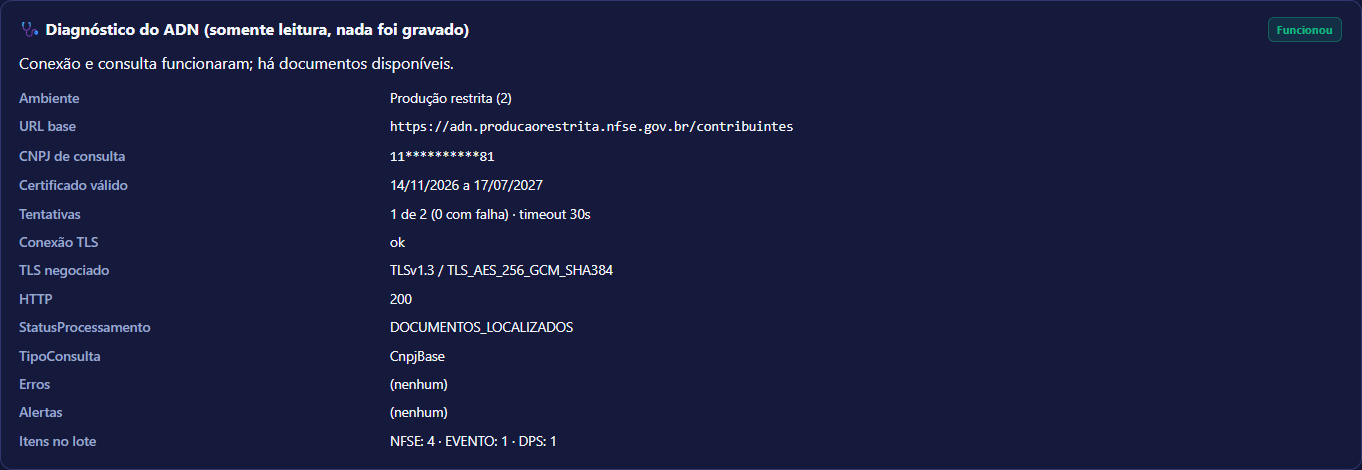
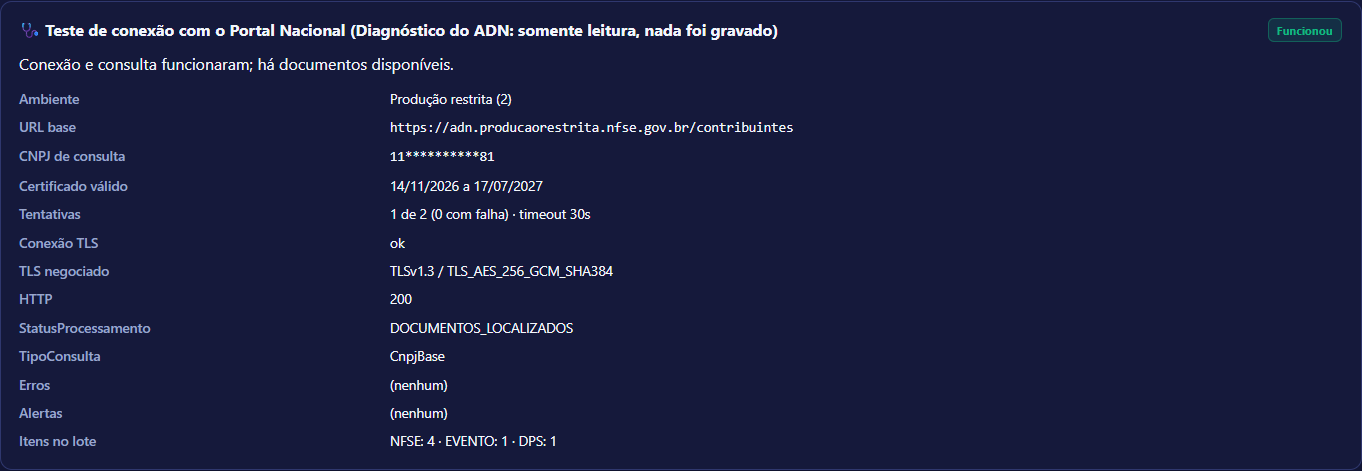
docs(ui): rename 'Diagnóstico do ADN' button to 'Testar conexão (Portal Nacional)' and drop remaining old button/tab names
The technical name stays as hover tip, in the diagnostic panel title and in the READMEs.

diff --git a/web/static/app.js b/web/static/app.js
@@ -1201,7 +1201,7 @@
     }
   };
 
-  // --- Fase 2 & 3: Recebidas da SEFAZ + Cadastro Visual do Certificado A1 ---
+  // --- Fases 2-4: Buscar notas (SEFAZ e Portal Nacional) + Cadastro Visual do Certificado A1 ---
   const definirStatusRecebidas = (msg, erro = false) => {
     const el = document.getElementById("recebidas-sync-status");
     if (!el) return;
@@ -1232,7 +1232,7 @@
   };
 
   const mensagemUltimaSync = (log, origem) => {
-    if (!log) return "Nenhuma sincronização registrada.";
+    if (!log) return "Nenhuma busca registrada.";
     const quando = log.ts ? new Date(log.ts).toLocaleString("pt-BR") : "-";
     let txt = `Última execução (${quando}): `;
     const gravados = `${log.novos_docs} documento(s) gravado(s) em ${log.paginas} página(s)`;
@@ -1387,7 +1387,7 @@
           bannerBloqueio.classList.remove("hidden");
           bannerBloqueio.innerHTML = `
             ⛔ <strong>Trava obrigatória SEFAZ ativa (cStat 656 — Consumo Indevido):</strong>
-            aguarde ~${minRest} min (até ${escaparHtml(dtAte)}) antes de sincronizar novamente para não reiniciar o bloqueio de 1 hora na SEFAZ.
+            aguarde ~${minRest} min (até ${escaparHtml(dtAte)}) antes de buscar novamente para não reiniciar o bloqueio de 1 hora na SEFAZ.
           `;
           if (btnSync) btnSync.disabled = true;
         } else {
@@ -1624,7 +1624,7 @@
 
     if (notas.length === 0) {
       tbody.innerHTML =
-        '<tr><td colspan="10" style="text-align:center;" class="muted">Nenhuma nota encontrada para os filtros selecionados. Sincronize ou carregue a demonstração.</td></tr>';
+        '<tr><td colspan="10" style="text-align:center;" class="muted">Nenhuma nota encontrada para os filtros selecionados. Busque as notas ou carregue a demonstração.</td></tr>';
       return;
     }
 
@@ -1755,7 +1755,7 @@
         return { erro: true, texto: "NF-e: cadastre o certificado digital A1 (passo a passo acima)." };
       }
       if (!resp.ok) {
-        return { erro: true, texto: `NF-e: ${dados.detail || `falha na sincronização (HTTP ${resp.status}).`}` };
+        return { erro: true, texto: `NF-e: ${dados.detail || `falha na busca (HTTP ${resp.status}).`}` };
       }
       return {
         erro: false,
@@ -1775,7 +1775,7 @@
         return { erro: true, texto: "NFS-e: cadastre o certificado digital A1 (passo a passo acima)." };
       }
       if (!resp.ok) {
-        return { erro: true, texto: `NFS-e: ${dados.detail || `falha na sincronização (HTTP ${resp.status}).`}` };
+        return { erro: true, texto: `NFS-e: ${dados.detail || `falha na busca (HTTP ${resp.status}).`}` };
       }
       let txt = `NFS-e (ADN): ${dados.paginas_consultadas} página(s), ${dados.novas_notas} nova(s), ${dados.notas_atualizadas} atualizada(s), ${dados.eventos_registrados} evento(s)`;
       const ign = Object.entries(dados.ignorados_por_tipo || {});
@@ -1868,7 +1868,7 @@
       : '<span class="badge badge-err">Atenção</span>';
     return `
       <div style="display:flex;justify-content:space-between;align-items:center;gap:1rem;">
-        <strong>🩺 Diagnóstico do ADN (somente leitura, nada foi gravado)</strong> ${selo}
+        <strong>🩺 Teste de conexão com o Portal Nacional (Diagnóstico do ADN: somente leitura, nada foi gravado)</strong> ${selo}
       </div>
       <p style="margin:0.5rem 0;">${escaparHtml(d.interpretacao || "")}</p>
       <table class="diag-table"><tbody>
@@ -1888,7 +1888,7 @@
       if (resp.status === 503) {
         box.classList.add("hidden");
         mostrarPassoACerto();
-        definirStatusRecebidas("Cadastre o certificado digital A1 para usar o diagnóstico (passo a passo acima).", true);
+        definirStatusRecebidas("Cadastre o certificado digital A1 para testar a conexão (passo a passo acima).", true);
         return;
       }
       if (!resp.ok) {
@@ -1982,7 +1982,7 @@
   const resetarBancoCompleto = async () => {
     const confirmado = window.confirm(
       "Zerar completamente o banco SQLite local?\n\n" +
-        "Isso apagará todos os lotes importados (Aba 1), todas as notas recebidas da SEFAZ (Aba 2), " +
+        "Isso apagará todos os lotes importados (Aba 1), todas as notas buscadas (aba Buscar notas), " +
         "cursores NSU e logs, deixando o sistema pronto para dados reais. " +
         "Seu Certificado Digital A1 configurado não será apagado."
     );

diff --git a/web/templates/index.html b/web/templates/index.html
@@ -13,7 +13,7 @@
         <span class="brand-badge">NF-e / NFC-e / NFS-e</span>
         <div>
           <h1>nfe-local <span class="version-pill">v{{ version }}</span></h1>
-          <p class="subtitle">Acervo fiscal unificado, validador contábil em lote, DANFE / DANFSe e sincronização SEFAZ 100% local</p>
+          <p class="subtitle">Acervo fiscal unificado, validador contábil em lote, DANFE / DANFSe e busca de notas na SEFAZ e no Portal Nacional, 100% local</p>
         </div>
       </div>
       <div class="topbar-actions">
@@ -455,7 +455,7 @@
       </div>
     </div>
 
-    <!-- ABA 2: Recebidas da SEFAZ (NFeDistribuicaoDFe) -->
+    <!-- ABA 2: Buscar notas (SEFAZ e Portal Nacional) -->
     <div id="aba-recebidas" class="tab-panel hidden">
       <!-- Painel de Status e Gestão Visual do Certificado A1 e Cursor NSU -->
       <section class="card sefaz-status-panel">
@@ -477,8 +477,8 @@
             <button id="btn-sync-tudo" type="button" class="btn btn-gold" title="Busca a NF-e de produto na SEFAZ e depois a NFS-e de serviço no ADN">
               🔄 Buscar tudo
             </button>
-            <button id="btn-diag-adn" type="button" class="btn btn-secondary" title="Uma consulta de leitura ao ADN; não grava nada no banco nem altera o cursor">
-              🩺 Diagnóstico do ADN
+            <button id="btn-diag-adn" type="button" class="btn btn-secondary" title="Diagnóstico do ADN: uma consulta de leitura ao ADN (GET /DFe/0); não grava nada no banco nem altera o cursor">
+              🩺 Testar conexão (Portal Nacional)
             </button>
             <button id="btn-demo-recebidas" type="button" class="btn btn-secondary">
               🧪 Carregar Recebidas de Demonstração
@@ -598,7 +598,7 @@
             <li>Tenha em mãos o arquivo <code>.pfx</code> (ou <code>.p12</code>) do e-CNPJ A1 e a senha dele.</li>
             <li>Clique em <strong>⚙ Cadastrar / Trocar Certificado (.pfx)</strong> acima e escolha o arquivo.</li>
             <li>Informe a senha, escolha o ambiente (produção restrita para testar, produção para valer) e clique em <strong>Validar e Salvar</strong>.</li>
-            <li>Volte aqui e clique em <strong>🩺 Diagnóstico do ADN</strong> para testar a conexão sem gravar nada; depois em <strong>Sincronizar tudo</strong>.</li>
+            <li>Volte aqui e clique em <strong>🩺 Testar conexão (Portal Nacional)</strong> para testar sem gravar nada; depois em <strong>Buscar tudo</strong>.</li>
           </ol>
           <span class="muted">Sem certificado você ainda pode usar <strong>🧪 Carregar Recebidas de Demonstração</strong> (dados fictícios) e enviar XMLs na primeira aba.</span>
         </div>

diff --git a/tests/test_web_recebidas.py b/tests/test_web_recebidas.py
@@ -395,6 +395,20 @@ class TestRotasRecebidasSEFAZ:
         assert "Buscar notas (SEFAZ e Portal Nacional)" in html
         assert "Recebidas da SEFAZ (DistDFe)" not in html
         assert ">🏛 SEFAZ e ADN" not in html
+        # nomes antigos de botões não aparecem em nenhum texto da interface
+        raiz = Path(__file__).parent.parent
+        js = (raiz / "web" / "static" / "app.js").read_text(encoding="utf-8")
+        for antigo in (
+            "Sincronizar tudo",
+            "Sincronizar NF-e",
+            "Sincronizar NFS-e",
+            "Sincronizar com a SEFAZ",
+            "🩺 Diagnóstico do ADN",
+            "Recebidas da SEFAZ",
+        ):
+            assert antigo not in html, antigo
+            assert antigo not in js, antigo
+        assert "<strong>Buscar tudo</strong>" in html  # passo a passo sem certificado
         for rotulo in (
             "Buscar NF-e de produto (SEFAZ)",
             "Buscar NFS-e de serviço (Portal Nacional)",
@@ -408,7 +422,8 @@ class TestRotasRecebidasSEFAZ:
             "XMLs ilegíveis (ERRO_XML)",
             "Totais por tipo e por papel",
             "Valor total (autorizadas)",
-            "Diagnóstico do ADN",
+            "Testar conexão (Portal Nacional)",
+            "Diagnóstico do ADN: uma consulta de leitura",
             "Tudo (acervo + SEFAZ + ADN)",
             "Só emitidas",
             "Só tomadas",

diff --git a/README.md b/README.md
@@ -16,8 +16,8 @@ Seus arquivos XML e seu certificado digital nunca saem da sua infraestrutura: to
 | ![Tabela de notas](docs/prints/tabela-notas.png) | ![Painel gerencial](docs/prints/painel-gerencial.png) |
 | **Buscar notas (SEFAZ e Portal Nacional): NF-e de produto e NFS-e de serviço, com Origem e Papel** | **Escopo "Tudo" (acervo + SEFAZ + ADN)** |
 | ![Buscar notas (SEFAZ e Portal Nacional)](docs/prints/sefaz-adn.png) | ![Escopo Tudo](docs/prints/escopo-tudo.png) |
-| **Diagnóstico do ADN (somente leitura)** | **DANFE oficial (NF-e 55)** |
-| ![Diagnóstico do ADN](docs/prints/diagnostico-adn.png) | ![DANFE](docs/prints/danfe.png) |
+| **Testar conexão (Portal Nacional) = Diagnóstico do ADN, somente leitura** | **DANFE oficial (NF-e 55)** |
+| ![Testar conexão (Portal Nacional)](docs/prints/diagnostico-adn.png) | ![DANFE](docs/prints/danfe.png) |
 
 ![DANFSe v2.0 com QR Code](docs/prints/danfse.png)
 
@@ -92,7 +92,7 @@ A aba **Buscar notas (SEFAZ e Portal Nacional)** mostra o que foi buscado automa
    - Consulta SOAP 1.2 com mTLS usando Certificado Digital A1 (`.pfx`), descompacta lotes `<docZip>` (`base64 + gzip`), armazena no SQLite local e disponibiliza a aba **"🏛 SEFAZ e ADN"** com filtros por emitente, período, faixa de valor, categoria e situação.
 7. **Sincronização de NFS-e pelo ADN Nacional (emitidas e tomadas — Fase 4):**
    - Busca, no mesmo fluxo, as NFS-e em que o CNPJ é **prestador, tomador ou intermediário**, com cursor de NSU próprio, repetição automática só em falha de conexão e diagnóstico somente leitura. Veja a seção **Fase 4** abaixo e `docs/adn.md`.
-8. **Visão única:** a aba **Buscar notas (SEFAZ e Portal Nacional)** (botões *Buscar NF-e de produto (SEFAZ)*, *Buscar NFS-e de serviço (Portal Nacional)*, *Buscar tudo* e *Diagnóstico do ADN*) e o escopo **Tudo** da primeira aba mostram tudo o que o CNPJ emitiu ou recebeu (produto, serviço e consumidor).
+8. **Visão única:** a aba **Buscar notas (SEFAZ e Portal Nacional)** (botões *Buscar NF-e de produto (SEFAZ)*, *Buscar NFS-e de serviço (Portal Nacional)*, *Buscar tudo* e *Testar conexão (Portal Nacional)*, que é o Diagnóstico do ADN) e o escopo **Tudo** da primeira aba mostram tudo o que o CNPJ emitiu ou recebeu (produto, serviço e consumidor).
 
 ---
 
@@ -146,7 +146,7 @@ fe_recebidas.db` (ou `NFE_DB_PATH`) | **Sem criptografia.** Contém as notas rec
 - **Sem DPAPI (Linux, macOS, Docker):** a senha **não é gravada em disco**. Defina `NFE_CERT_SENHA` no ambiente do processo; sem ela o certificado cadastrado não abre e o programa avisa.
 - **Limite da DPAPI:** protege contra cópia dos arquivos e outros usuários da máquina, não contra um programa malicioso rodando como você nem contra alguém logado na sua conta.
 - ⚠ **Nunca deixe o certificado dentro de pastas sincronizadas** (OneDrive, Dropbox, Google Drive, iCloud). Elas enviam os arquivos para a nuvem e guardam versões antigas. A interface avisa quando detecta esse caso.
-- **Migração:** versões antigas gravavam `data/certificado/` dentro do projeto, com `senha.txt` em texto puro. Se essa pasta existir, a aba **Recebidas da SEFAZ** mostra o botão **"Mover e proteger agora"**: o certificado vai para a pasta segura, a senha é protegida e os arquivos antigos são sobrescritos e apagados. A senha nunca é impressa em tela nem em log. Atenção: se a pasta antiga já foi sincronizada, cópias podem existir no histórico de versões/lixeira da nuvem. Nesse caso, **troque o certificado** (revogue e emita outro) ou ao menos apague essas versões.
+- **Migração:** versões antigas gravavam `data/certificado/` dentro do projeto, com `senha.txt` em texto puro. Se essa pasta existir, a aba **Buscar notas (SEFAZ e Portal Nacional)** mostra o botão **"Mover e proteger agora"**: o certificado vai para a pasta segura, a senha é protegida e os arquivos antigos são sobrescritos e apagados. A senha nunca é impressa em tela nem em log. Atenção: se a pasta antiga já foi sincronizada, cópias podem existir no histórico de versões/lixeira da nuvem. Nesse caso, **troque o certificado** (revogue e emita outro) ou ao menos apague essas versões.
 
 ### 2. Regras Operacionais da SEFAZ Implementadas
 - **Sincronização Incremental por NSU (`ultNSU` / `maxNSU`):**
@@ -173,7 +173,7 @@ O **ADN** (Ambiente de Dados Nacional da NFS-e) distribui as NFS-e do Padrão Na
 ### Como testar a chamada real (passo a passo)
 
 1. **Cadastre o certificado A1** (aba **Buscar notas (SEFAZ e Portal Nacional)** → *Cadastrar / Trocar Certificado*, ou `NFE_CERT_PATH`/`NFE_CERT_SENHA`).
-2. **Diagnóstico (não grava nada):** botão **🩺 Diagnóstico do ADN** ou `nfe-local sincronizar-adn --diagnostico --ambiente 2` (depois `--ambiente 1`). Ele faz **uma** consulta de leitura e mostra: URL base, CNPJ **mascarado**, validade do certificado, resultado do TLS (versão e cifrador), HTTP, `StatusProcessamento`, `TipoConsulta`, erros/alertas e a contagem de itens por tipo. Em falha de conexão, mostra a etapa, a exceção raiz, o código do sistema e o que fazer, sem URL com parâmetros, CNPJ, caminho do certificado, senha nem XML.
+2. **Diagnóstico (não grava nada):** botão **🩺 Testar conexão (Portal Nacional)** (o Diagnóstico do ADN) ou `nfe-local sincronizar-adn --diagnostico --ambiente 2` (depois `--ambiente 1`). Ele faz **uma** consulta de leitura e mostra: URL base, CNPJ **mascarado**, validade do certificado, resultado do TLS (versão e cifrador), HTTP, `StatusProcessamento`, `TipoConsulta`, erros/alertas e a contagem de itens por tipo. Em falha de conexão, mostra a etapa, a exceção raiz, o código do sistema e o que fazer, sem URL com parâmetros, CNPJ, caminho do certificado, senha nem XML.
 3. **Sincronização de uma página:** `nfe-local sincronizar-adn --max-paginas 1 --db <um banco de teste>`.
 4. **Sincronização completa:** `nfe-local sincronizar-adn` (ou **Buscar NFS-e de serviço (Portal Nacional)** / **Buscar tudo** no painel). Se parar por `LIMITE_PAGINAS`, rode de novo: continua do cursor.
 

diff --git a/README.en.md b/README.en.md
@@ -16,8 +16,8 @@ Your XML files and digital certificate never leave your infrastructure: all proc
 | ![Invoice table](docs/prints/tabela-notas.png) | ![Management dashboard](docs/prints/painel-gerencial.png) |
 | **Buscar notas (SEFAZ and Portal Nacional): product NF-e and service NFS-e, with Origin and Role** | **"Everything" scope (archive + SEFAZ + ADN)** |
 | ![Buscar notas (SEFAZ and Portal Nacional)](docs/prints/sefaz-adn.png) | ![Everything scope](docs/prints/escopo-tudo.png) |
-| **ADN diagnostic (read-only)** | **Official DANFE (NF-e 55)** |
-| ![ADN diagnostic](docs/prints/diagnostico-adn.png) | ![DANFE](docs/prints/danfe.png) |
+| **Testar conexão (Portal Nacional) = ADN diagnostic, read-only** | **Official DANFE (NF-e 55)** |
+| ![Testar conexão (Portal Nacional)](docs/prints/diagnostico-adn.png) | ![DANFE](docs/prints/danfe.png) |
 
 ![DANFSe v2.0 with QR Code](docs/prints/danfse.png)
 
@@ -92,7 +92,7 @@ The **Buscar notas (SEFAZ e Portal Nacional)** tab shows what was fetched automa
    - Performs SOAP 1.2 queries with mTLS using an ICP-Brasil A1 certificate (`.pfx`), decompresses `<docZip>` payloads (`base64 + gzip`), persists records in local SQLite, and provides the **"🏛 SEFAZ e ADN"** tab filterable by issuer, date range, amount, category, and status.
 7. **NFS-e Synchronization via the National ADN (issued and received — Phase 4):**
    - Fetches, in the same flow, NFS-e where the CNPJ is **provider, taker or intermediary**, with its own NSU cursor, automatic retries only on connection failures and a read-only diagnostic. See the **Phase 4** section below and `docs/adn.md`.
-8. **Single view:** the **Buscar notas (SEFAZ e Portal Nacional)** tab (*Buscar NF-e de produto (SEFAZ)*, *Buscar NFS-e de serviço (Portal Nacional)*, *Buscar tudo* and *Diagnóstico do ADN* buttons) and the **Tudo** scope on the first tab show everything the CNPJ issued or received (product, service and consumer).
+8. **Single view:** the **Buscar notas (SEFAZ e Portal Nacional)** tab (*Buscar NF-e de produto (SEFAZ)*, *Buscar NFS-e de serviço (Portal Nacional)*, *Buscar tudo* and *Testar conexão (Portal Nacional)* buttons; the latter is the ADN diagnostic) and the **Tudo** scope on the first tab show everything the CNPJ issued or received (product, service and consumer).
 
 ---
 
@@ -171,7 +171,7 @@ The **ADN** (national NFS-e data environment) distributes the National Standard 
 ### How to test the real call (step by step)
 
 1. **Register the A1 certificate** (**Buscar notas (SEFAZ e Portal Nacional)** tab → *Cadastrar / Trocar Certificado*, or `NFE_CERT_PATH`/`NFE_CERT_SENHA`).
-2. **Diagnostic (writes nothing):** the **🩺 Diagnóstico do ADN** button or `nfe-local sincronizar-adn --diagnostico --ambiente 2` (then `--ambiente 1`). It makes **one** read query and shows: base URL, **masked** CNPJ, certificate validity, TLS result (version and cipher), HTTP, `StatusProcessamento`, `TipoConsulta`, errors/alerts and the item count per type. On a connection failure it shows the stage, root exception, OS code and what to do, with no URL parameters, CNPJ, certificate path, password or XML.
+2. **Diagnostic (writes nothing):** the **🩺 Testar conexão (Portal Nacional)** button (the ADN diagnostic) or `nfe-local sincronizar-adn --diagnostico --ambiente 2` (then `--ambiente 1`). It makes **one** read query and shows: base URL, **masked** CNPJ, certificate validity, TLS result (version and cipher), HTTP, `StatusProcessamento`, `TipoConsulta`, errors/alerts and the item count per type. On a connection failure it shows the stage, root exception, OS code and what to do, with no URL parameters, CNPJ, certificate path, password or XML.
 3. **One-page sync:** `nfe-local sincronizar-adn --max-paginas 1 --db <a test database>`.
 4. **Full sync:** `nfe-local sincronizar-adn` (or **Buscar NFS-e de serviço (Portal Nacional)** / **Buscar tudo** in the panel). If it stops at `LIMITE_PAGINAS`, run again: it continues from the cursor.
 
